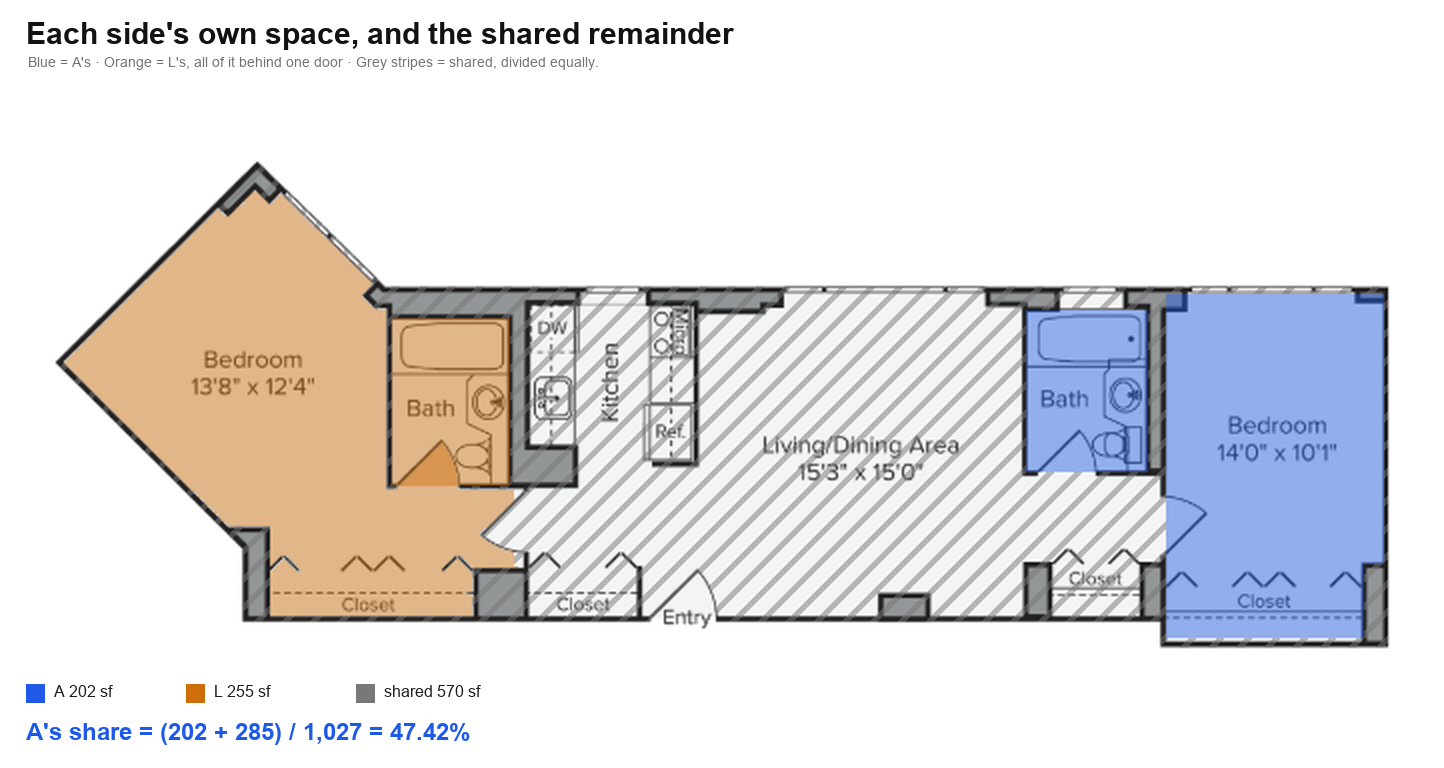
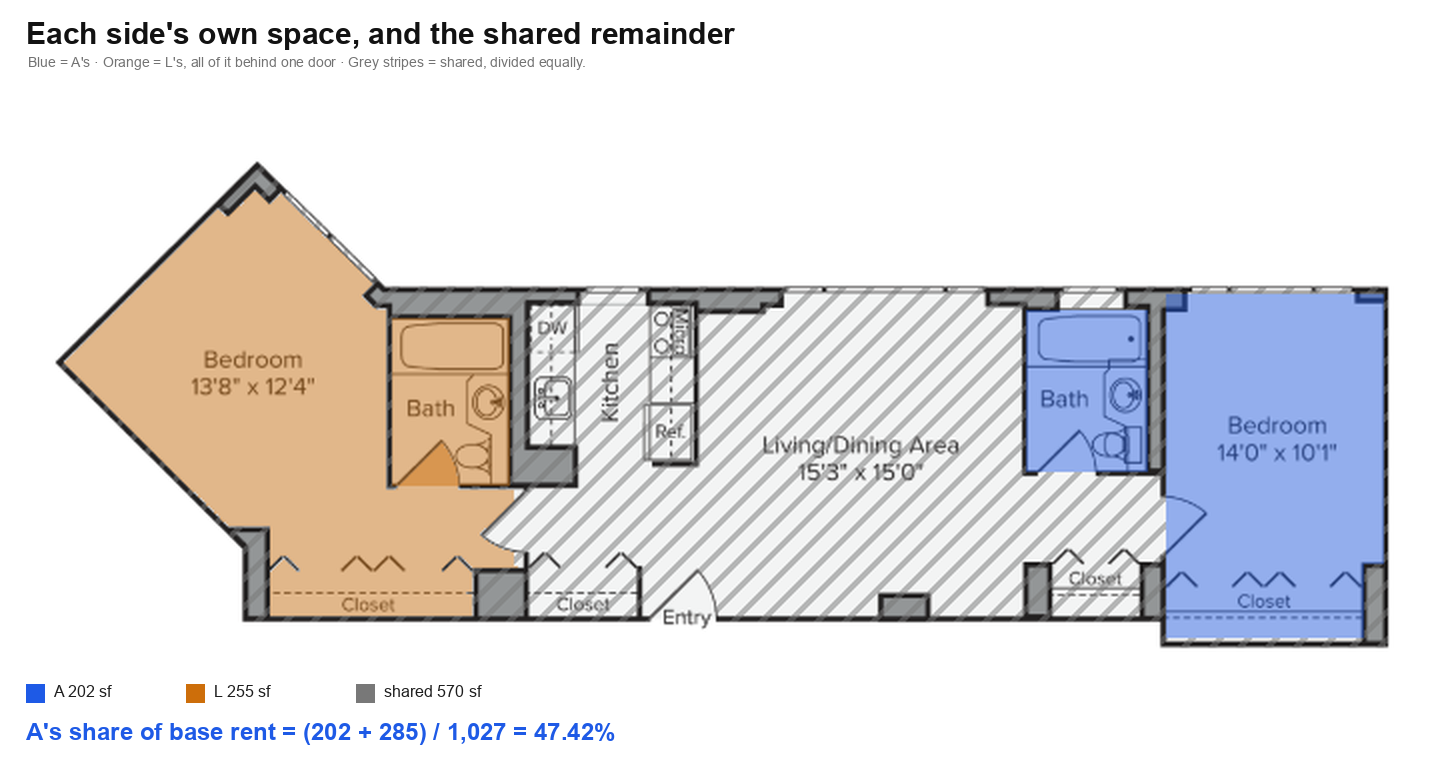
Split only the base rent by area; amenities, internet, liability and utilities 50:50
A's 47.42% area share now applies to the base rent alone. Every other charge
is split evenly: amenities, internet and liability in the totals here, and the
metered utilities billed on top of them.

On renewal A pays $3,263 + $151 = $3,414 and L $3,618 + $151 = $3,769, up $8
for A from 47.42% of everything. Today's equivalent is $3,213, so A pays $120
a month more than the rule gives, and $127 on renewal if 49.30% carries over.

The split figure now reads "A's share of base rent".

Changed region(s): [[0.0623, 0.0312, 0.4986, 0.0938], [0.0935, 0.9375, 0.4363, 0.9688], [0.0312, 0.875, 0.0935, 0.9062]]

diff --git a/split.py b/split.py
@@ -13,6 +13,10 @@ Each side pays for the space only they use, plus half the space both use:
 
 "Own" means behind a door only one side passes through. L's bedroom, closet
 and bathroom are all behind one door. A's are not.
+
+The share applies to the base rent only. Amenities, internet and liability are
+split 50:50, and so are the metered utilities, which are billed on top and are
+not in the totals here.
 """
 
 import measure
@@ -32,9 +36,14 @@ L_KEYS = measure.L_KEYS
 
 
 def share(a_sf, l_sf):
-    """A's share of the total."""
+    """A's share of the base rent."""
     rest = TOTAL_SF - a_sf - l_sf
     return (a_sf + rest / 2) / TOTAL_SF
+
+
+def a_parts(charges, base_share):
+    """A's part of each charge: base_share of the base rent, half of the rest."""
+    return {k: v * (base_share if k == "base" else 0.5) for k, v in charges.items()}
 
 
 def main():
@@ -64,17 +73,29 @@ def main():
     print(f"  shared                {TOTAL_SF - a_own - l_own:7.1f} sf")
     print(f"  total (published)     {TOTAL_SF:7.1f} sf\n")
 
-    print("SHARE OF THE RENT")
-    print(f"  {'':<24}{'share':>8}{'today':>9}{'renewal':>10}")
-    for name, pc in (("as paid today", paid_pct), ("by the rule", by_rule)):
-        print(f"  {name:<24}{pc:>7.2%}{CURRENT_TOTAL * pc:>9,.0f}{RENEWAL_TOTAL * pc:>10,.0f}")
-    d_today = CURRENT_TOTAL * by_rule - PAID_A
-    d_renew = RENEWAL_TOTAL * by_rule - RENEWAL_TOTAL * paid_pct
+    renew = a_parts(RENEWAL, by_rule)
+    rule_today = sum(a_parts(CURRENT, by_rule).values())
+    rule_renew = sum(renew.values())
+    hold_renew = RENEWAL_TOTAL * paid_pct
+
+    print("SHARE OF THE RENT \u2014 base rent by area, everything else 50:50")
+    print(f"  {'on renewal':<22}{'A share':>9}{'total':>9}{'A':>8}{'L':>8}")
+    for k, v in RENEWAL.items():
+        a = renew[k]
+        print(f"  {k:<22}{a / v:>9.2%}{v:>9,}{a:>8,.0f}{v - a:>8,.0f}")
+    print(f"  {'TOTAL':<22}{'':>9}{RENEWAL_TOTAL:>9,}{rule_renew:>8,.0f}"
+          f"{RENEWAL_TOTAL - rule_renew:>8,.0f}")
+
+    print(f"\n  {'A pays':<24}{'today':>9}{'renewal':>10}")
+    print(f"  {'as paid today, ' + format(paid_pct, '.2%'):<24}{PAID_A:>9,}{hold_renew:>10,.0f}")
+    print(f"  {'by the rule':<24}{rule_today:>9,.0f}{rule_renew:>10,.0f}")
+    d_today = rule_today - PAID_A
+    d_renew = rule_renew - hold_renew
     print(f"\n  vs what A pays now                {d_today:>+9,.0f}")
     print(f"  on renewal, vs holding {paid_pct:.2%}   {d_renew:>+9,.0f}"
           f"   ({d_renew * 12:+,.0f}/year)")
-    print("\n  This is area only. It does not yet represent that the master bedroom,")
-    print("  L's, has a south-facing window and an in-bedroom bathroom.")
+    print("\n  The base-rent split is area only. It does not yet represent that the")
+    print("  master bedroom, L's, has a south-facing window and an in-bedroom bathroom.")
 
 
 if __name__ == "__main__":

diff --git a/measure.py b/measure.py
@@ -309,7 +309,8 @@ def figure_split(masks, envelope, path="figures/split.png"):
     dr.rectangle([MX + 330, y + 6, MX + 348, y + 24], fill=(120, 120, 120))
     dr.text((MX + 358, y + 4), f"shared {shared:.0f} sf", font=f_s, fill=(30, 30, 30))
     dr.text((MX, y + 40),
-            f"A's share = ({a_tot:.0f} + {shared / 2:.0f}) / {PUBLISHED_SF:,} = {share * 100:.2f}%",
+            f"A's share of base rent = ({a_tot:.0f} + {shared / 2:.0f}) / {PUBLISHED_SF:,} = "
+            f"{share * 100:.2f}%",
             font=f_n, fill=A_HUE)
     out.save(path)
     return path

diff --git a/README.md b/README.md
@@ -21,6 +21,10 @@ share = (own area + shared area / 2) / total area
 
 "Own" means behind a door only one side passes through.
 
+The share applies to the base rent only. Amenities, internet and liability are
+split 50:50, and so are the metered utilities (electricity, gas, water, sewer),
+which are billed on top and aren't in the totals below.
+
 ## The rent
 
 Resident portal, 18 September 2026. Current lease ends 17 Nov 2026.
@@ -57,16 +61,20 @@ inside that door.
 
 ![The split](./figures/split.png)
 
-| | Share | Today | Renewal |
-|---|---|---|---|
-| As paid today | 49.30% | $3,333 | $3,541 |
-| **By the rule** | **47.42%** | **$3,206** | **$3,406** |
+| A pays | Today | Renewal |
+|---|---|---|
+| As paid today, 49.30% of the total | $3,333 | $3,541 |
+| **By the rule** | **$3,213** | **$3,414** |
 
-A is paying **$127/month more than the rule gives**; carrying 49.30% into the
-renewal rather than recalculating makes that **$135/month, $1,620 a year**.
+By the rule on renewal, A pays 47.42% of the $6,881 base rent plus half of the
+$302 in other charges: $3,263 + $151 = **$3,414**. L pays $3,618 + $151 =
+**$3,769**.
 
-**This is area only.** It does not yet represent that the master bedroom, L's,
-has a south-facing window and an in-bedroom bathroom.
+A is paying **$120/month more than the rule gives**; carrying 49.30% into the
+renewal rather than recalculating makes that **$127/month, $1,527 a year**.
+
+**The base-rent split is area only.** It does not yet represent that the master
+bedroom, L's, has a south-facing window and an in-bedroom bathroom.
 
 ## Method
 
